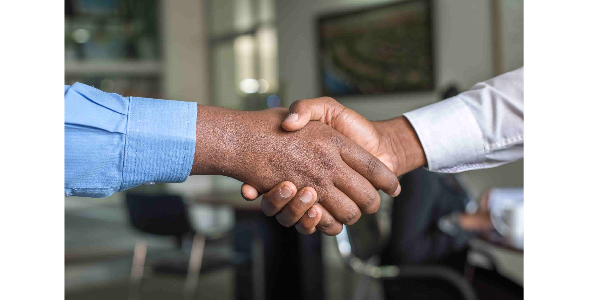
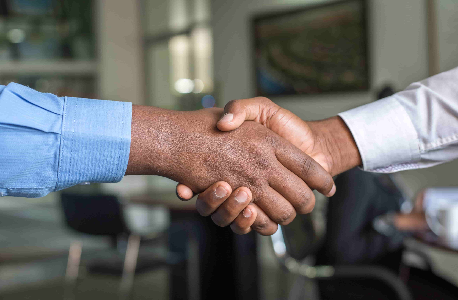
CSS styling button and image in Home

diff --git a/wp-content/themes/good_theme/css/style.css b/wp-content/themes/good_theme/css/style.css
@@ -28,22 +28,24 @@ body {
 }
 
 .continuar-button {
+  display: flex;
+  justify-content: center;
+  align-items: center;
+}
+
+button {
   background-color: #333333;
   border: none;
   color: #ccb991  ;
   padding: 5px 24px;
-  text-align: center;
   text-decoration: none;
-  display: table;
   cursor: pointer;
-  margin-left: auto;
-  margin-right: auto;
-  margin-bottom: 30px;
+  margin: 30px 0;
   border-radius: 5px;
 }
 
 .second-container {
-  margin: 0 400px;
+  margin: 0 300px;
   padding: 0 0 30px 0;
 }
 

diff --git a/wp-content/themes/good_theme/index.php b/wp-content/themes/good_theme/index.php
@@ -41,7 +41,7 @@ get_header();
 
 			<div class="content">
 				<div class="image-home">
-					<img src="/TestGood/wp-content/themes/good_theme/images/img1.png" script="width:700 px;height:700px;">
+					<img src="/TestGood/wp-content/themes/good_theme/images/img1.png" script="width:458 px;height:300px;">
 				</div>
 
 				<div class="main-content">
@@ -49,7 +49,9 @@ get_header();
 				</div>
 			</div>
 
-			<div class="continuar-button">Continuar</div>
+			<div class="continuar-button">
+				<button>Continuar</button>
+			</div>
 		</div>
 	</div>	
 
